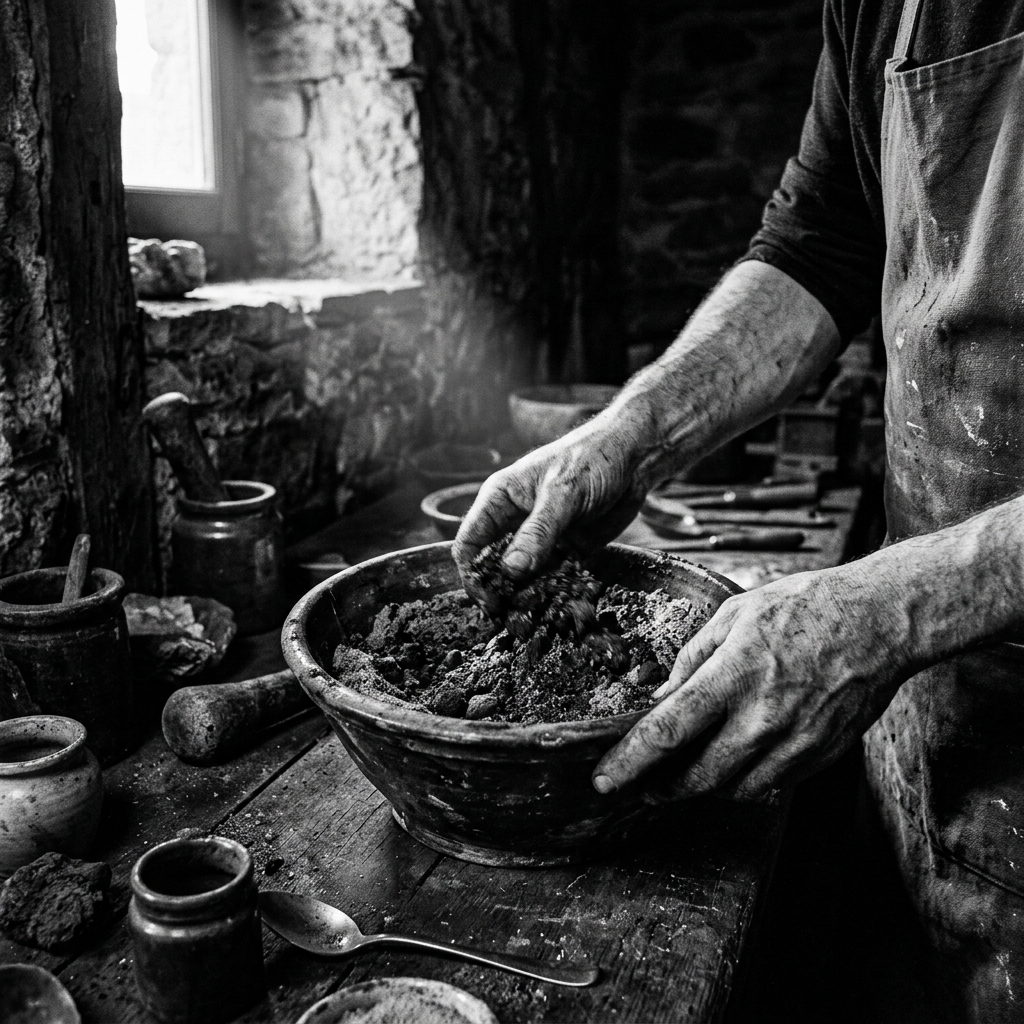
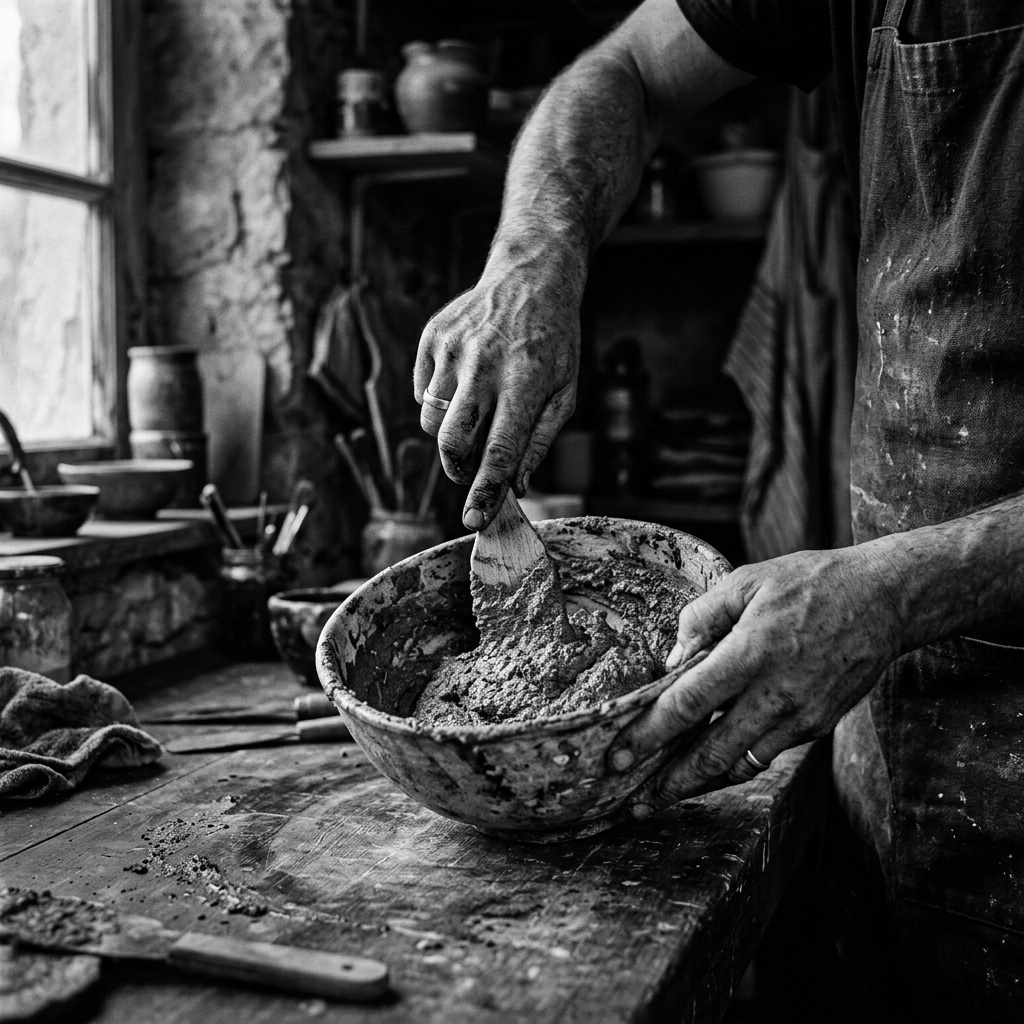
feat: update story components and translations

diff --git a/src/app/api/chat/route.ts b/src/app/api/chat/route.ts
@@ -1,11 +1,10 @@
 import { NextRequest, NextResponse } from "next/server";
-import OpenAI from "openai";
+import { GoogleGenerativeAI } from "@google/generative-ai";
 import { buildSystemPrompt } from "@/lib/ai-knowledge";
 import { getClientKey, rateLimit, rateLimitHeaders } from "@/lib/rate-limit";
 import { validateChatMessages, ValidationError } from "@/lib/validation";
 
-// Best free NVIDIA model for chat — change to any model from build.nvidia.com
-const CHAT_MODEL = "meta/llama-3.1-70b-instruct";
+const CHAT_MODEL = "gemini-2.0-flash";
 
 export async function POST(req: NextRequest) {
   const rl = rateLimit(getClientKey(req, "chat"), 20, 5 * 60_000);
@@ -23,16 +22,11 @@ export async function POST(req: NextRequest) {
       maxContentLength: 4_000,
     });
 
-    // OpenAI-format messages with system prompt
-    const openaiMessages: OpenAI.Chat.ChatCompletionMessageParam[] = [
-      { role: "system", content: buildSystemPrompt() },
-      ...messages.map((m) => ({
-        role: m.role as "user" | "assistant",
-        content: m.content,
-      })),
-    ];
+    if (messages.length === 0) {
+      return NextResponse.json({ error: "No messages provided." }, { status: 400 });
+    }
 
-    const apiKey = process.env.NVIDIA_API_KEY ?? process.env.GEMINI_API_KEY;
+    const apiKey = process.env.GEMINI_API_KEY;
     if (!apiKey) {
       console.error("API Key is missing from environment variables.");
       return NextResponse.json(
@@ -41,25 +35,30 @@ export async function POST(req: NextRequest) {
       );
     }
 
-    const client = new OpenAI({
-      apiKey,
-      baseURL: "https://integrate.api.nvidia.com/v1",
+    const genAI = new GoogleGenerativeAI(apiKey);
+    const model = genAI.getGenerativeModel({
+      model: CHAT_MODEL,
+      systemInstruction: buildSystemPrompt(),
     });
 
-    const stream = await client.chat.completions.create({
-      model: CHAT_MODEL,
-      messages: openaiMessages,
-      stream: true,
-      max_tokens: 1024,
-    });
+    // Format messages for Gemini API
+    const history = messages.slice(0, -1).map((m) => ({
+      role: m.role === "user" ? "user" : "model",
+      parts: [{ text: m.content }],
+    }));
+    
+    const lastMessage = messages[messages.length - 1].content;
+
+    const chat = model.startChat({ history });
+    const result = await chat.sendMessageStream(lastMessage);
 
     const encoder = new TextEncoder();
 
     const readable = new ReadableStream({
       async start(controller) {
         try {
-          for await (const chunk of stream) {
-            const text = chunk.choices[0]?.delta?.content;
+          for await (const chunk of result.stream) {
+            const text = chunk.text();
             if (text) controller.enqueue(encoder.encode(text));
           }
         } catch (err) {

diff --git a/src/components/microcement-preview/flood-fill.ts b/src/components/microcement-preview/flood-fill.ts
@@ -189,9 +189,9 @@ export function smartPrecisionWallSegment(
   // Pass 1: tight — good precision on well-lit photos
   let mask = dualCheckBFS(
     labMap, edgeMap, width, height, startX, startY,
-    /* globalTol */ 45,
-    /* localTol  */ 12,
-    /* edgeThres */ 32,
+    /* globalTol */ 25,
+    /* localTol  */ 6,
+    /* edgeThres */ 20,
     maxPixels
   );
 
@@ -201,9 +201,9 @@ export function smartPrecisionWallSegment(
   if (filled < 800) {
     mask = dualCheckBFS(
       labMap, edgeMap, width, height, startX, startY,
-      /* globalTol */ 60,
-      /* localTol  */ 18,
-      /* edgeThres */ 45,
+      /* globalTol */ 40,
+      /* localTol  */ 10,
+      /* edgeThres */ 28,
       maxPixels
     );
   }

diff --git a/src/app/[lang]/story/page.tsx b/src/app/[lang]/story/page.tsx
@@ -58,7 +58,7 @@ export default async function StoryPage({
             </div>
             <div className="relative h-[500px] lg:h-[700px] w-full order-1 lg:order-2">
               <Image 
-                src="/assets/pages/story/origin.png" 
+                src="/assets/pages/about/About Us.jpg" 
                 alt={dict.story.sections.origin.title} 
                 fill 
                 className="object-cover grayscale"
@@ -74,7 +74,7 @@ export default async function StoryPage({
           <div className="grid grid-cols-1 lg:grid-cols-2 gap-16 lg:gap-32 items-center">
             <div className="relative h-[500px] lg:h-[700px] w-full">
               <Image 
-                src="/assets/pages/story/artisan.png" 
+                src="/assets/pages/story/microcement-texture.png" 
                 alt={dict.story.sections.philosophy.title} 
                 fill 
                 className="object-cover"

diff --git a/src/components/story/StoryHero.tsx b/src/components/story/StoryHero.tsx
@@ -282,7 +282,7 @@ export function StoryHero({ title, subtitle, lang }: StoryHeroProps) {
             transition={{ duration: 1.3, delay: 0.55, ease: [0.16, 1, 0.3, 1] }}
           >
             <Image
-              src="/assets/pages/story/origin.png"
+              src="/assets/pages/about/About Us.jpg"
               alt="KUUS DESIGN Atelier"
               fill
               className="object-cover"
@@ -365,7 +365,7 @@ export function StoryHero({ title, subtitle, lang }: StoryHeroProps) {
         animate={{ clipPath: "inset(0 0% 0 0)" }}
         transition={{ duration: 1.2, delay: 0.4, ease: [0.16, 1, 0.3, 1] }}
       >
-        <Image src="/assets/pages/story/origin.png" alt="KUUS DESIGN" fill className="object-cover object-center" />
+        <Image src="/assets/pages/about/About Us.jpg" alt="KUUS DESIGN" fill className="object-cover object-center" />
         <div className="absolute inset-0 bg-gradient-to-t from-background/60 to-transparent" />
       </motion.div>
     </section>

diff --git a/src/app/[lang]/layout.tsx b/src/app/[lang]/layout.tsx
@@ -95,7 +95,7 @@ export default async function RootLayout({
     "image": `${BASE_URL}/hero.png`,
     "@id": BASE_URL,
     "url": BASE_URL,
-    "telephone": "[phone redacted]",
+    "telephone": "[phone redacted]",
     "email": "[email redacted]",
     "priceRange": "€€€",
     "address": {

diff --git a/src/lib/ai-knowledge.ts b/src/lib/ai-knowledge.ts
@@ -6,7 +6,7 @@ export function buildSystemPrompt(): string {
 - You have deep knowledge of Basebeton microcement systems (by Stone Age, Netherlands)
 - You help customers understand products, applications, maintenance, and the installation process
 - You do NOT discuss competitor brands
-- Contact: [email redacted] | [phone redacted] | Mineral tn 124, Tartu 51003
+- Contact: [email redacted] | [phone redacted] | Mineral tn 124, Tartu 51003
 
 ## ABSOLUTE RULES
 1. **NEVER quote prices, m² rates, or cost estimates.** If asked about price, cost, hind, hinta, prix, preis — respond warmly that pricing is project-specific and personal, then end your message with exactly: [CONTACT_FORM]

diff --git a/AGENTS.md b/AGENTS.md
@@ -1,5 +1,93 @@
-<!-- BEGIN:nextjs-agent-rules -->
-# This is NOT the Next.js you know
+# Agent Instructions — Janar Kuusk
 
-This version has breaking changes — APIs, conventions, and file structure may all differ from your training data. Read the relevant guide in `node_modules/next/dist/docs/` before writing any code. Heed deprecation notices.
-<!-- END:nextjs-agent-rules -->
+> Drop this file at the root of any project to give Antigravity / Cursor / any agent
+> the same persistent memory + standing rules Claude Code uses.
+> Template lives at: `~/.claude/templates/AGENTS.md`
+
+## 🧠 Persistent Memory
+
+Brain lives in Obsidian vault:
+```
+/Users/janarkuusk/Claude Brain/Vault/
+```
+
+| Path | Purpose |
+|---|---|
+| `MOCs/Claude-Memory-MOC.md` | master index — read first |
+| `Daily Notes/YYYY-MM-DD.md` | per-day session log |
+| `Sessions/` | per-session archive |
+| `Projects/<name>/` | per-project notes |
+
+**If `obsidian-http-mcp` is connected:** use it to read/write the vault.
+**If not:** use filesystem read/write at paths above.
+
+### When to update memory
+
+Append to daily note or project note when you:
+- Make a non-obvious architectural decision
+- Discover a recurring bug pattern
+- Learn a project-specific convention not in code
+- Resolve a tricky integration
+
+Skip noisy updates (trivial edits, typos, single-line fixes).
+
+## Active Projects
+
+| Project | Stack |
+|---|---|
+| **PocketNegotiator** | Expo SDK 53 + RN + TS + Supabase + Gemini AI |
+| **Maison Éclat** | Shopify (luxury) |
+| **Microcement Web** | Next.js 16 |
+| **Janar Kuusk Portfolio** | Next.js 16 + Tailwind v4 |
+| **KUUS Design Shopify** | Shopify |
+| **Loorea Jewellery** | Shopify |
+| **Marketing Agency Website** | Next.js |
+| **SolarAir Dynamics** | Next.js |
+| **Kuus Agency Echo** | TBD |
+| **Fusion AI ERP** | TBD |
+
+## Standing Rules (all projects)
+
+### Code
+- TypeScript only — no plain JS
+- RN styling: `StyleSheet` + `useTheme()` — never hardcoded colors
+- Path alias: `@/*` maps to repo root — no relative imports
+- AI calls: route through Supabase Edge Functions — never client-direct
+- Streaming: `lib/streaming.ts` → `fetchEdgeFunctionStream()`
+- Icons: `lucide-react-native`
+- i18n: `t('key')` in `LanguageContext.tsx` (11 langs) — never hardcode strings
+- Animations: `react-native-reanimated` 3
+
+### Supabase
+- Edge Functions on Deno — validate JWT from `Authorization` header first
+- New tables: `ALTER TABLE ... ENABLE ROW LEVEL SECURITY` + policy on `auth.uid() = user_id`
+- New tables: extend `Database` type in `lib/supabase.ts`
+
+### Git
+- Never commit to `main` — branch + PR
+- Never commit secrets / `.env`
+- Use specific file names with `git add`, not `git add .`
+
+### File org
+- Never save to root — use `/src /tests /docs /config /scripts /examples`
+- Read before edit
+- Edit existing > create new
+- Never create .md/README unless asked
+
+### Behavior
+- Do what was asked — nothing more, nothing less
+- Don't ask for confirmation on small tasks — do + report
+- For complex tasks: batch ALL related ops in one message (file reads, edits, bash, todos)
+
+## Tooling References
+
+- **claude-mem** worker indexes transcripts globally → `claude-mem search <query>`
+- **Obsidian vault MOC:** `/Users/janarkuusk/Claude Brain/Vault/MOCs/Claude-Memory-MOC.md`
+- **Global CLAUDE.md:** `~/.claude/CLAUDE.md`
+
+## Personal Font Library
+
+Pick from these before defaulting to Google Fonts:
+Osure, Galiath, Antar Bintang, Margoe, Boower, Glavoire, Weliona, Aurelis, Nexed, Futuristics Meicre, Corpta, Polea, Nerlios, Xirod, Montage, Basote, Francy, Lunery, Osiris, Neo Folia, Bierika.
+
+Reference: `/Users/janarkuusk/Claude Brain/Vault/Resources/Fonts.md`